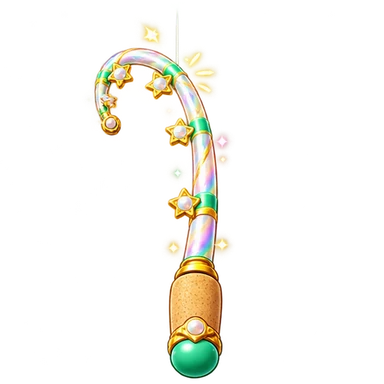
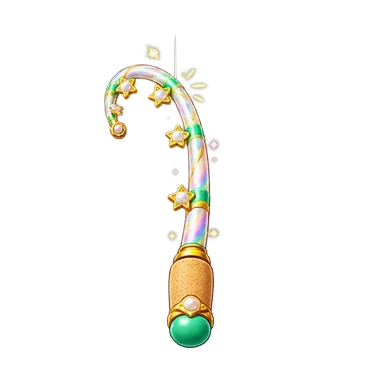
그림 31 정렬 맞춤: 낚싯대 손잡이 · 길이, 릴 크기를 기본 그림에 맞춤
주문서의 손잡이 기준값(256,408)이 실제 기본 pov-rod와 달라 20px쯤 아래로 내려갔다.
낚싯대 16장은 단계마다 같은 배율로 기본 낚싯대 길이에 맞추고 손잡이 끝을 같은 자리로,
릴 4장은 기본 릴과 같은 크기 · 같은 가운데로 옮겼다.

Claude-Session: https://claude.ai/code/session_01A5RZQPRfVyC7gPtKAitbtD

Changed region(s): [[0.2188, 0.0625, 0.5938, 1.0]]

diff --git a/public/sw.js b/public/sw.js
@@ -7,7 +7,7 @@
 // switches to it (and reloads) only when no exam or practice is on screen.
 
 // BUILD:START (generated by server/build-assets.mjs, do not edit by hand)
-const ASSET_HASH = '3d5b4a3451b36827';
+const ASSET_HASH = '3e7ff1157393847a';
 const PRECACHE = ["/app.bundle.css","/app.js","/boot-guard.js","/icon.svg","/inapp.js","/","/manifest.webmanifest","/modules/arcade.js","/modules/battle-bot.js","/modules/battle-engine.js","/modules/battle-fx.js","/modules/battle-questions.js","/modules/battle.js","/modules/bracket-tv.js","/modules/card-levelup.js","/modules/celebrate.js","/modules/character.js","/modules/class-tv.js","/modules/core.js","/modules/dungeon-fx.js","/modules/dungeon.js","/modules/emblems.js","/modules/fishing-art.js","/modules/fishing-rules.js","/modules/flashcards.js","/modules/friend-sheet.js","/modules/league-ui.js","/modules/lucky.js","/modules/market.js","/modules/match-game.js","/modules/match-rules.js","/modules/monsters.js","/modules/party-tv.js","/modules/party.js","/modules/pet-growth.js","/modules/pet-moments.js","/modules/petbook.js","/modules/reel-rules.js","/modules/reel.js","/modules/reward-events-ui.js","/modules/rewards.js","/modules/rps.js","/modules/sessions.js","/modules/sheet.js","/modules/sound.js","/modules/stocks.js","/modules/streak-guard-ui.js","/modules/streak-guard.js","/modules/student.js","/modules/teacher.js","/modules/titles-ui.js","/modules/titles.js","/modules/tournament-ui.js","/modules/ui.js","/modules/word-minigame-ui.js","/modules/word-minigame.js","/practice-enhancements.js","/pwa.js","/student-enhancements.js","/sumus-logo-green.svg"];
 // BUILD:END
 

diff --git a/docs/asset-requests/runner/DONE_31.md b/docs/asset-requests/runner/DONE_31.md
@@ -108,3 +108,10 @@
 - **눈으로 확인 필요:** 위 손잡이·릴 미통과 사항을 해결하기 전 실제 화면 연결·배포를 진행하지 않는다. 기본과 완전히 같은 형태·크기라는 보장은 없다.
 - **눈으로 확인 필요:** 도장 숫자·강화 카드·버튼을 실제 화면에 올려 중앙 여백과 밝은 배경 대비를 확인한다.
 - PR 코멘트에 통합 미리보기 링크를 제공한다. 머지하지 않는다.
+
+## Claude 정렬 맞춤 (PR #163 검수 뒤)
+
+- 원인: 주문서(`CODEX_PROMPT_31.md`)에 적은 손잡이 기준 `(256,408)`은 29번 기록값이었고, 실제 기본 `pov-rod.webp`와 맞지 않았다(그림 문제가 아니라 주문서 기준값 문제).
+- 낚싯대 16장: 단계마다 곧은 자세의 전체 높이를 기본 낚싯대(27~349px)에 맞춘 배율(2단계 0.882 · 3단계 0.890 · 4단계 0.882 · 5단계 0.859)을 4자세에 똑같이 쓰고, 손잡이 끝(맨 아래 24px의 가운데)을 기본 그림의 같은 자세와 같은 자리에 옮겼다. 결과: 손잡이 끝 y 348~349px, 기본 그림과 같다.
+- 릴 4장: 몸통 테두리 상자를 기본 `pov-reel.webp`(가로 23~360px · 세로 37~347px)와 같은 크기 · 같은 가운데로 맞췄다(배율 1.88~1.94).
+- 아이콘 · 효과 · 배경은 그대로 둔다.
